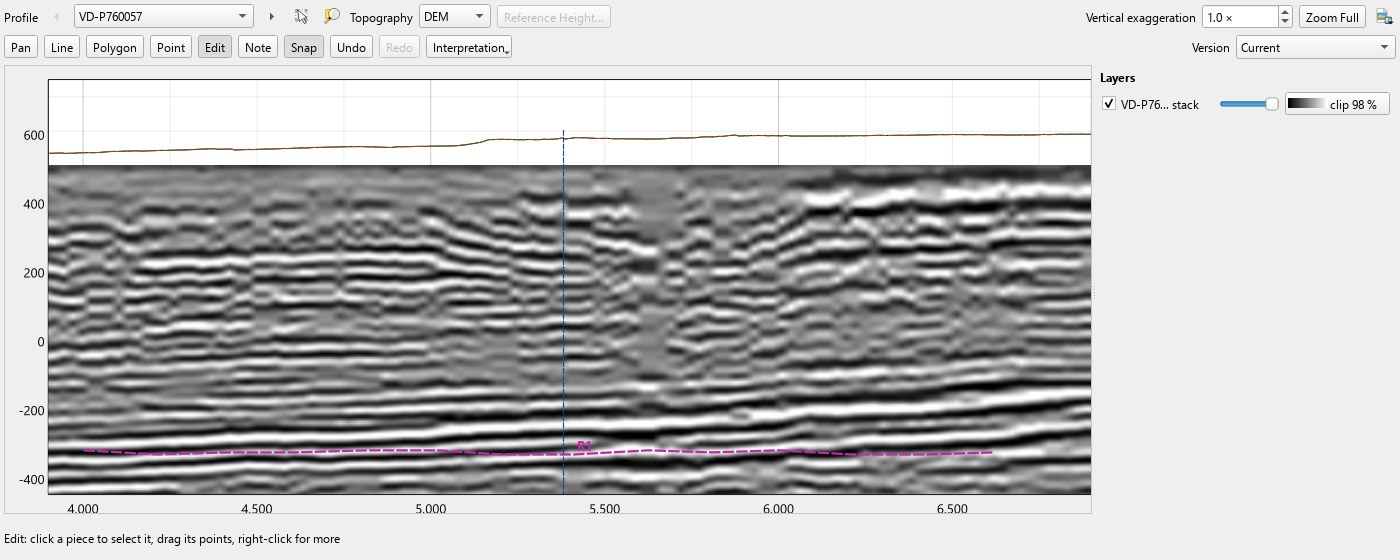
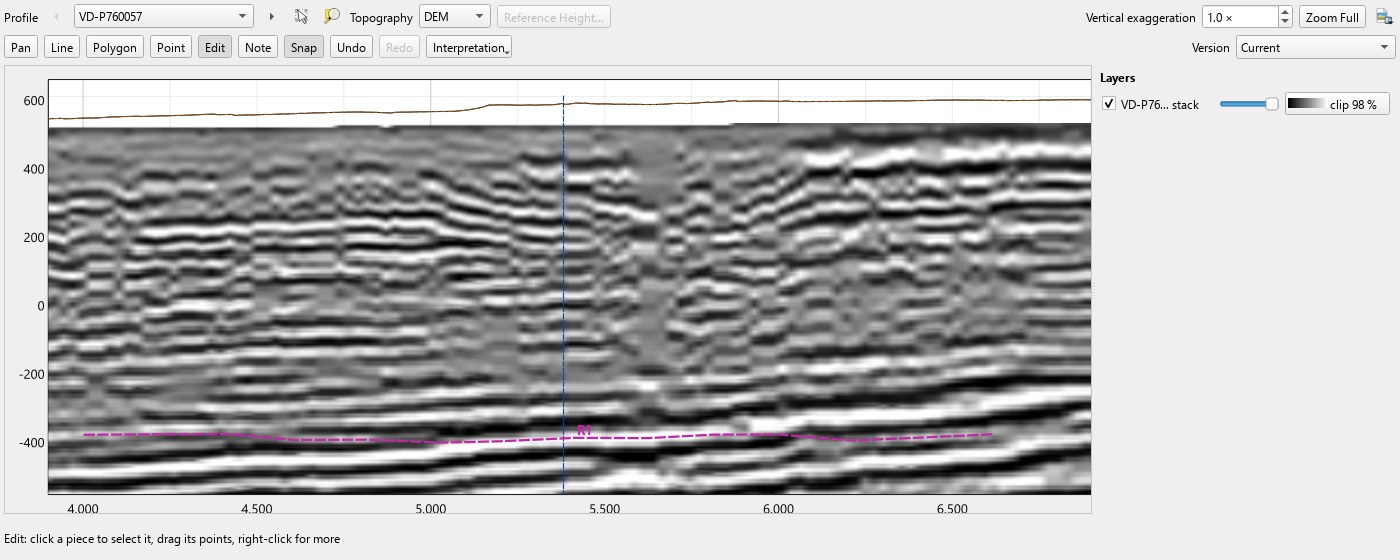
docs: reflection pictures and texts follow the rebuilt Vaud demo

diff --git a/scripts/render_reflection_pictures.py b/scripts/render_reflection_pictures.py
@@ -10,7 +10,7 @@ written, and local edits to it never show), opens it offscreen and writes to ``o
 - ``reflection-add-data.png``: Add Data with the stack of VD-P760057 chosen, its parts
   numbered in a gutter as in render_doc_images.py (``ADD_DATA_PARTS``);
 - ``reflection-display.png``: the section's Display… dialog, numbered (``DISPLAY_PARTS``);
-- ``reflection-horizon.jpg``: 3 km of VD-P760057 from the ground to -475 m, in Edit, with one
+- ``reflection-horizon.jpg``: 3 km of VD-P760057 from the ground to -575 m, in Edit, with one
   reflector drawn as a line.
 
 segyio is looked for in .testlibs/ as the tests do (scripts/test.ps1 says how to put it
@@ -39,14 +39,14 @@ STACK = f"data/{LINE}_stack.sgy"
 PANEL = (1400, 560)
 JPEG_QUALITY = 88           # the panel pictures: seismic grey compresses poorly as PNG
 #: the horizon picture: from s, to s, top of the view, exaggeration
-ZOOM = (3900.0, 6900.0, 750.0, 1.0)
+ZOOM = (3900.0, 6900.0, 650.0, 1.0)
 #: the reflector drawn as a line: a strong, nearly flat positive reflector at about this
 #: height (read off the section's mean trace), picked on its strongest amplitude within
 #: HORIZON_WINDOW of that height from HORIZON_START to HORIZON_END, a point every HORIZON_STEP
-HORIZON_START = (4000.0, -334.0)
+HORIZON_START = (4000.0, -400.0)
 HORIZON_END = 6800.0
 HORIZON_STEP = 200.0
-HORIZON_WINDOW = 9.0        # m up and down (one and a half samples at 3000 m/s)
+HORIZON_WINDOW = 14.0       # m up and down (about one and a half samples near 0.5 s)
 DIALOG_WIDTH = 760
 DISPLAY_WIDTH = 520
 #: Add Data's parts in marker order: rows of the SEG-Y box by their key, or dialog parts by

diff --git a/docs/user/howto/reflection-sections.md b/docs/user/howto/reflection-sections.md
@@ -4,7 +4,7 @@ A processed seismic reflection section (a stack or a migrated section) comes in 
 SEG-Y file and stands on its profile in depth, next to the ground line, boreholes, resistivity
 models and crossing lines. You pick horizons on it with the same tools as on any other section.
 
-![Line VD-P760057 of the Vaud demo: a stack 8.5 km long, from its datum at 500 m down to about 5 km depth, with the ground line just above its top and the crossing line VD-P760068](../../images/howto/reflection-section.jpg)
+![Line VD-P760057 of the Vaud demo: a stack 8.5 km long, from its top near the 500 m datum down to almost 10 km below sea level, with the ground line just above its top and the crossing line VD-P760068](../../images/howto/reflection-section.jpg)
 
 *The Vaud demo, line VD-P760057. Data: Federal Office of Topography swisstopo.*
 
@@ -74,12 +74,21 @@ What this means for accuracy:
 - The error grows with depth. A velocity 10 % too low puts every reflector 10 % too shallow:
   5 m at 50 m depth, 300 m at 3 km.
 - A plate always states the velocity used, in the line under the section, for example
-  *depth from v = 3000 m/s*. A reader of the plate can judge the depth from it.
+  *depth from v = 2500 m/s* or *depth from a velocity function (3199–5387 m/s)*. A reader of
+  the plate can judge the depth from it.
 
 You can change the velocity, the sample step and where time zero lies later in
 [Dataset info](dataset-info.md). The picture moves; nothing is read again. Drawings are stored
 at their heights, so they stay where they are: when the profile has drawings, Groundwork asks
 before it moves the section.
+
+### Where to find the velocity and the datum
+
+The processing report, or the title block of the original paper section, usually states the
+datum plane, the replacement velocity and a table of two-way time against velocity. Type these
+into the dialog; paste the table with Ctrl+V. For the Vaud demo they were read from the scanned
+section that comes with the swisstopo download: a datum of 500 m, a replacement velocity of
+4000 m/s, and average velocities from about 3200 m/s near the top to about 5400 m/s at 3.8 s.
 
 ### Where time zero lies
 
@@ -98,11 +107,12 @@ before it moves the section.
 A processed land section has a flat top at its datum. Processing moved every trace to that
 height with a replacement velocity, so the ground shows only as the blank zone above the first
 data. When the datum lies below the ground, as in the Vaud demo, the section starts below the
-ground line ([picture below](#picking-horizons)).
+ground line: the uppermost part of the ground is not in the data
+([picture below](#picking-horizons)).
 
 **At a fixed height, corrected to the ground** undoes this for the picture: the time the
 ground has in the data, 2 × (datum − ground) ÷ replacement velocity, is put on the ground
-line. Reflectors then follow the real topography.
+line. Reflectors then follow the real topography. The Vaud demo is shown this way.
 
 - On a deep line the difference is small. On a Swiss exploration line with a datum of 700 m
   and ground between 560 and 730 m, using a velocity of 3000 m/s and a replacement velocity of
@@ -156,7 +166,7 @@ Horizons are drawn with the [interpretation tools](interpretation.md): **Line** 
 reflector or a fault, **Polygon** for a body, **Point** for a pick. Give each a type and a
 name; the drawings become QGIS layers on the map and in 3D, as for any other section.
 
-![3 km of VD-P760057 zoomed in, in Edit: a reflector at about −330 m drawn as line R1; the ground line lies some 50 to 100 m above the section's flat top at 500 m](../../images/howto/reflection-horizon.jpg)
+![3 km of VD-P760057 zoomed in, in Edit: a reflector at about −400 m drawn as line R1; the ground line lies some 30 to 80 m above the section's top, which lies just above 500 m](../../images/howto/reflection-horizon.jpg)
 
 *Data: Federal Office of Topography swisstopo.*
 
@@ -218,10 +228,15 @@ To find your QGIS profile folder: **Settings → User Profiles → Open Active P
    and VD-P760068, on a 10 m elevation model of swissALTI3D.
 2. **Groundwork → Show Section Panel** and open **VD-P760057**. The crossing line is marked
    where it crosses.
-3. Zoom in near the top: the ground line lies some 50 to 100 m above the section's flat top
-   at 500 m, the datum of the processing.
-4. Right-click the section → **Dataset info…** to see the velocity and the datum. The velocity
-   of 3000 m/s is an assumption of the demo, not a value from swisstopo.
+3. Zoom in near the top: the section's top lies near 500 m, the datum of the processing, and
+   the ground line up to about 80 m above it. The uppermost part of the ground is not in the
+   data.
+4. Right-click the section → **Dataset info…** to see the velocity function and the datum.
+   The datum of 500 m, the replacement velocity of 4000 m/s and the average velocities come
+   from the original section sheet of VD-P760057, which swisstopo ships with the line. The
+   sheet gives five velocity columns for different stretches of the line; the demo uses one
+   function for the whole line, the median of the five. VD-P760068 has no such sheet; it is
+   from the same 1976 survey, and the demo uses the same values for it as an assumption.
 
 The data are swisstopo's open reflection lines ("2D and 3D reflection seismic in
 Switzerland", opendata.swiss) and swissALTI3D. Data: Federal Office of Topography swisstopo.

diff --git a/README.md b/README.md
@@ -185,8 +185,10 @@ details.
 - Seismic reflection: lines VD-P760057 and VD-P760068 from "2D and 3D reflection seismic in
   Switzerland", https://opendata.swiss/en/dataset/2d-und-3d-reflexionsseismik-in-der-schweiz.
   Source: Federal Office of Topography swisstopo; free use with the source named. The stacks
-  are unchanged and renamed. The velocity of 3000 m/s used for the depth display is an
-  assumption of the demo, not a value from swisstopo.
+  are unchanged and renamed. The datum of 500 m, the replacement velocity of 4000 m/s and the
+  average velocities come from the original section sheet of VD-P760057 shipped by swisstopo;
+  the demo applies them to VD-P760068 as an assumption, and uses one velocity function for
+  the whole line.
 - Terrain: swissALTI3D (resampled to 10 m and cut to 500 m each side of the lines). Source:
   Federal Office of Topography swisstopo.
 
